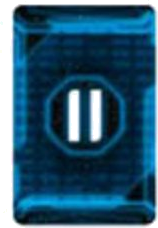
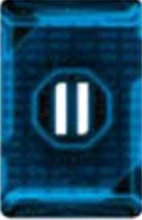
Add files via upload

diff --git a/index.html b/index.html
@@ -1,5 +1,5 @@
 <!DOCTYPE html>
-<!-- TI4 Tracker 2.054 -->
+<!-- TI4 Tracker 2.055 -->
 <html lang="en">
 <head>
 <meta charset="UTF-8">
@@ -257,7 +257,7 @@ label { font-size: 12px; color: var(--text-dim); display: block; margin-bottom: 
 // TI4 Tracker - Single file, no module systems, no IIFEs
 // =============================================================================
 
-var VERSION = '2.054';
+var VERSION = '2.055';
 document.getElementById('version-display').textContent = 'v' + VERSION;
 
 // Debug logger - silent unless panel toggled open
@@ -488,6 +488,49 @@ const STARTING_TECH = {
   "The Crimson Rebellion":[],
   "The Firmament":[],
   "The Obsidian":[],
+};
+
+// Prerequisite color markers for each tech. Colors: y=yellow(cybernetic), g=green(biotic), b=blue(propulsion), r=red(warfare)
+const TECH_PREREQS = {
+  // BIOTIC
+  "Neural Motivator": [],
+  "Dacxive Animators": ["g"],
+  "Hyper Metabolism": ["g","g"],
+  "X-89 Bacterial Weapon": ["g","g","g"],
+  "Psychoarchaeology": [],
+  "Bio-Stims": ["g"],
+  // PROPULSION
+  "Antimass Deflectors": [],
+  "Gravity Drive": ["b"],
+  "Fleet Logistics": ["b","b"],
+  "Light/Wave Deflector": ["b","b","b"],
+  "Dark Energy Tap": [],
+  "Sling Relay": ["b"],
+  // CYBERNETIC
+  "Sarween Tools": [],
+  "Graviton Laser System": ["y"],
+  "Transit Diodes": ["y","y"],
+  "Integrated Economy": ["y","y","y"],
+  "Scanlink Drone Network": [],
+  "Predictive Intelligence": ["y"],
+  // WARFARE
+  "Plasma Scoring": [],
+  "Magen Defense Grid": ["r"],
+  "Duranium Armor": ["r","r"],
+  "Assault Cannon": ["r","r","r"],
+  "AI Development Algorithm": [],
+  "Self Assembly Routines": ["r"],
+  // UNIT UPGRADES
+  "Carrier II": ["b","b"],
+  "Cruiser II": ["g","y","r"],
+  "Destroyer II": ["r","r"],
+  "Dreadnought II": ["b","y"],
+  "Fighter II": ["g","g"],
+  "Infantry II": ["g"],
+  "Mech": ["g","y"],
+  "PDS II": ["r","y"],
+  "Space Dock II": ["y","y"],
+  "War Sun": ["r","r","r","y"]
 };
 
 const FACTION_DATA = {
@@ -1722,7 +1765,6 @@ function renderTech() {
   if (!p) { techPlayer = 0; p = state.players[0]; }
   
   // Player picker - bigger buttons, two rows
-  // Split players into two rows
   var half = Math.ceil(state.players.length / 2);
   var row1 = state.players.slice(0, half);
   var row2 = state.players.slice(half);
@@ -1743,99 +1785,58 @@ function renderTech() {
   
   h += '<div class="small mt-16" style="text-align:center"><b>' + p.name + '</b> — ' + p.faction + '</div>';
   
-  // Current techs - in larger boxes
+  // Researched techs
   h += '<div class="mt-16"><div style="font-size:11px;letter-spacing:.15em;color:var(--gold);text-transform:uppercase;margin-bottom:6px">Researched</div>';
   if (!p.techs || !p.techs.length) {
     h += '<div class="small dim center" style="padding:12px">No technologies researched</div>';
   } else {
     h += '<div style="display:flex;flex-direction:column;gap:6px">';
     p.techs.forEach(function(name) {
-      var t = TECHNOLOGIES.find(function(x) { return x.name === name; });
-      var type = t ? t.type : 'unit';
-      var typeColor = type === 'biotic' ? '#27ae60' :
-                      type === 'propulsion' ? '#2980b9' :
-                      type === 'cybernetic' ? '#d4ac0d' :
-                      type === 'warfare' ? '#e74c3c' :
-                      type === 'unit' ? '#a569bd' :
-                      'var(--gold)';
-      h += '<div style="display:flex;align-items:center;gap:8px;background:rgba(36, 50, 84, 0.4);border:1px solid ' + typeColor + ';border-left:4px solid ' + typeColor + ';border-radius:6px;padding:10px 12px">';
-      h += '<div style="flex:1;min-width:0">';
-      h += '<div style="font-size:14px;font-weight:600;color:' + typeColor + '">' + name + '</div>';
-      if (t && t.desc) {
-        h += '<div style="font-size:10px;color:var(--text-dim);margin-top:2px;line-height:1.3">' + t.desc + '</div>';
-      }
-      h += '</div>';
-      if (isAdmin) {
-        h += '<button onclick="removeTech(\'' + name.replace(/'/g, "\\'") + '\')" style="background:none;border:none;color:var(--red);font-size:16px;cursor:pointer;padding:4px 8px">✕</button>';
-      }
-      h += '</div>';
+      h += renderTechBox(name, true, p);
     });
     h += '</div>';
   }
   h += '</div>';
   
-  // Available techs grouped by type - all categories collapsed by default
+  // Available techs grouped by type
   h += '<div class="mt-16"><div style="font-size:11px;letter-spacing:.15em;color:var(--gold);text-transform:uppercase;margin-bottom:6px">Research New</div>';
   
-  var fd = FACTION_DATA[p.faction] || {};
-  var myFT = {};
-  (fd.factionTechs || []).forEach(function(ft) { myFT[ft.name] = true; });
-  
-  // Group order
-  var typeOrder = ['biotic', 'propulsion', 'cybernetic', 'warfare', 'unit', 'faction'];
-  var typeLabels = {biotic:'Biotic', propulsion:'Propulsion', cybernetic:'Cybernetic', warfare:'Warfare', unit:'Unit Upgrades', faction:'Faction'};
-  var typeColors = {biotic:'#27ae60', propulsion:'#2980b9', cybernetic:'#d4ac0d', warfare:'#e74c3c', unit:'#a569bd', faction:'#c9a84c'};
+  var typeOrder = ['biotic', 'propulsion', 'cybernetic', 'warfare', 'unit', 'faction', 'factionunit'];
+  var typeLabels = {biotic:'Biotic', propulsion:'Propulsion', cybernetic:'Cybernetic', warfare:'Warfare', unit:'Unit Upgrades', faction:'Faction', factionunit:'Faction Units'};
   
   typeOrder.forEach(function(type) {
-    // Available techs in this category (not already researched)
-    var techs = TECHNOLOGIES.filter(function(t) {
-      if (t.type !== type) return false;
-      if (p.techs && p.techs.indexOf(t.name) >= 0) return false;
-      return true;
-    });
-    
-    // For faction type, sort: mine first
-    if (type === 'faction') {
-      techs.sort(function(a, b) {
-        var aMine = myFT[a.name] ? 0 : 1;
-        var bMine = myFT[b.name] ? 0 : 1;
-        return aMine - bMine;
+    var techs;
+    if (type === 'factionunit') {
+      techs = getAllFactionUnits().filter(function(t) {
+        return (!p.techs || p.techs.indexOf(t.name) < 0);
+      });
+    } else {
+      techs = TECHNOLOGIES.filter(function(t) {
+        if (t.type !== type) return false;
+        if (p.techs && p.techs.indexOf(t.name) >= 0) return false;
+        return true;
       });
     }
     
     var count = techs.length;
     var expanded = techExpanded[type];
     var arrow = expanded ? '▼' : '▶';
-    var typeColor = typeColors[type];
+    var typeColor = getTechTypeColor(type);
     
     h += '<div style="margin-bottom:6px">';
-    // Category header - clickable
     h += '<div onclick="toggleTechCategory(\'' + type + '\')" style="display:flex;align-items:center;gap:8px;padding:8px 12px;background:rgba(36, 50, 84, 0.4);border-left:4px solid ' + typeColor + ';border-radius:6px;cursor:pointer;user-select:none">';
     h += '<span style="color:' + typeColor + ';font-size:12px;font-weight:700;flex:1">' + typeLabels[type] + '</span>';
     h += '<span style="color:var(--text-dim);font-size:11px">' + count + '</span>';
     h += '<span style="color:' + typeColor + ';font-size:10px">' + arrow + '</span>';
     h += '</div>';
     
-    // Tech list - only visible if expanded
     if (expanded) {
       h += '<div style="padding:6px 0 0 6px;display:flex;flex-direction:column;gap:4px">';
       if (!techs.length) {
         h += '<div class="small dim" style="padding:6px">All researched</div>';
       } else {
         techs.forEach(function(t) {
-          var greyed = type === 'faction' && !myFT[t.name];
-          var click = isAdmin && !greyed ? 'onclick="addTech(\'' + t.name.replace(/'/g, "\\'") + '\')"' : '';
-          var opacity = greyed ? '0.3' : '1';
-          var cursor = (isAdmin && !greyed) ? 'pointer' : 'default';
-          h += '<div ' + click + ' style="display:flex;align-items:center;gap:8px;background:rgba(36, 50, 84, 0.2);border:1px solid ' + typeColor + ';border-left:3px solid ' + typeColor + ';border-radius:4px;padding:8px 10px;opacity:' + opacity + ';cursor:' + cursor + '">';
-          h += '<div style="flex:1;min-width:0">';
-          h += '<div style="font-size:13px;color:' + typeColor + ';font-weight:600">' + t.name + '</div>';
-          if (t.desc) {
-            h += '<div style="font-size:10px;color:var(--text-dim);margin-top:2px;line-height:1.3">' + t.desc + '</div>';
-          }
-          h += '</div>';
-          if (isAdmin && !greyed) h += '<div style="color:' + typeColor + ';font-size:18px;flex-shrink:0">+</div>';
-          h += '</div>';
+          h += renderTechBox(t.name, false, p);
         });
       }
       h += '</div>';
@@ -1844,9 +1845,190 @@ function renderTech() {
   });
   
   h += '</div>';
-  
   el.innerHTML = h;
 }
+
+// Get all faction units flattened with synthetic tech objects: {name, type:'factionunit', faction, desc}
+function getAllFactionUnits() {
+  var out = [];
+  Object.keys(FACTION_DATA).forEach(function(facName) {
+    var fd = FACTION_DATA[facName] || {};
+    (fd.units || []).forEach(function(unitStr) {
+      // Parse "Name — desc" or "Name - desc"
+      var sep = unitStr.indexOf(' — ');
+      if (sep < 0) sep = unitStr.indexOf(' - ');
+      var name, desc;
+      if (sep > 0) {
+        name = unitStr.slice(0, sep).trim();
+        desc = unitStr.slice(sep + 3).trim();
+      } else {
+        name = unitStr;
+        desc = '';
+      }
+      out.push({ name: name, type: 'factionunit', faction: facName, desc: desc });
+    });
+  });
+  return out;
+}
+
+function getTechTypeColor(type) {
+  return type === 'biotic' ? '#27ae60' :
+         type === 'propulsion' ? '#2980b9' :
+         type === 'cybernetic' ? '#d4ac0d' :
+         type === 'warfare' ? '#e74c3c' :
+         type === 'unit' ? '#a569bd' :
+         type === 'faction' ? '#c9a84c' :
+         type === 'factionunit' ? '#c9a84c' :
+         'var(--gold)';
+}
+
+// Find tech info from any source by name
+function findTechByName(name) {
+  // Check standard TECHNOLOGIES first
+  var t = TECHNOLOGIES.find(function(x) { return x.name === name; });
+  if (t) return t;
+  // Check faction units
+  var allFU = getAllFactionUnits();
+  var fu = allFU.find(function(x) { return x.name === name; });
+  if (fu) return fu;
+  return null;
+}
+
+// Render a single tech box (uniform width, name + prereq markers, click to open detail)
+function renderTechBox(techName, isResearched, currentPlayer) {
+  var t = findTechByName(techName);
+  if (!t) {
+    // Unknown tech - render basic box
+    return '<div onclick="openTechDetail(\'' + techName.replace(/'/g, "\\'") + '\')" style="display:flex;align-items:center;gap:6px;background:rgba(36, 50, 84, 0.3);border:1px solid var(--border);border-left:3px solid var(--border);border-radius:6px;padding:10px 12px;cursor:pointer;width:100%"><div style="flex:1;font-size:13px">' + techName + '</div></div>';
+  }
+  
+  var typeColor = getTechTypeColor(t.type);
+  
+  // For faction-only techs/units, check if this player can research them
+  var ownedBySomeoneElse = false;
+  if (t.type === 'faction') {
+    var fdMine = FACTION_DATA[currentPlayer.faction] || {};
+    var mineHas = (fdMine.factionTechs || []).some(function(ft) { return ft.name === t.name; });
+    if (!mineHas) ownedBySomeoneElse = true;
+  } else if (t.type === 'factionunit') {
+    if (t.faction !== currentPlayer.faction) ownedBySomeoneElse = true;
+  }
+  
+  var opacity = (ownedBySomeoneElse && !isResearched) ? '0.4' : '1';
+  
+  // Prerequisite markers
+  var prereqs = TECH_PREREQS[techName] || [];
+  var markersHtml = '';
+  prereqs.forEach(function(c) {
+    var bg = c === 'y' ? '#d4ac0d' :
+             c === 'g' ? '#27ae60' :
+             c === 'b' ? '#2980b9' :
+             c === 'r' ? '#e74c3c' : '#888';
+    markersHtml += '<div style="width:14px;height:14px;background:' + bg + ';border:1px solid rgba(255,255,255,.3);border-radius:50%;flex-shrink:0"></div>';
+  });
+  
+  var safeName = techName.replace(/'/g, "\\'");
+  var h = '<div onclick="openTechDetail(\'' + safeName + '\')" style="display:flex;align-items:center;gap:6px;background:rgba(36, 50, 84, 0.4);border:1px solid ' + typeColor + ';border-left:4px solid ' + typeColor + ';border-radius:6px;padding:10px 12px;cursor:pointer;width:100%;opacity:' + opacity + '">';
+  // Tech name - allow truncation with ellipsis on small screens
+  h += '<div style="flex:1;min-width:0;font-size:14px;font-weight:600;color:' + typeColor + ';overflow:hidden;text-overflow:ellipsis;white-space:nowrap">' + techName + '</div>';
+  // Prereq markers (always rendered, padding allows ~3 markers)
+  h += '<div style="display:flex;gap:3px;flex-shrink:0;min-width:48px;justify-content:flex-end">' + markersHtml + '</div>';
+  h += '</div>';
+  return h;
+}
+
+// Open tech detail modal
+function openTechDetail(techName) {
+  var t = findTechByName(techName);
+  if (!t) {
+    alert('Tech info not found for: ' + techName);
+    return;
+  }
+  
+  var p = state.players[techPlayer];
+  if (!p) return;
+  var isResearched = p.techs && p.techs.indexOf(techName) >= 0;
+  var typeColor = getTechTypeColor(t.type);
+  
+  // Determine if this player can research this tech
+  var canResearch = true;
+  var disabledReason = '';
+  if (t.type === 'faction') {
+    var fdMine = FACTION_DATA[p.faction] || {};
+    var mineHas = (fdMine.factionTechs || []).some(function(ft) { return ft.name === t.name; });
+    if (!mineHas) { canResearch = false; disabledReason = 'Only available to its faction'; }
+  } else if (t.type === 'factionunit') {
+    if (t.faction !== p.faction) { canResearch = false; disabledReason = 'Only available to ' + t.faction; }
+  }
+  
+  var typeLabel = t.type === 'biotic' ? 'Biotic' :
+                  t.type === 'propulsion' ? 'Propulsion' :
+                  t.type === 'cybernetic' ? 'Cybernetic' :
+                  t.type === 'warfare' ? 'Warfare' :
+                  t.type === 'unit' ? 'Unit Upgrade' :
+                  t.type === 'faction' ? 'Faction Tech' :
+                  t.type === 'factionunit' ? 'Faction Unit' : t.type;
+  
+  var h = '<div style="background:rgba(10, 21, 37, 0.6);border:2px solid ' + typeColor + ';border-radius:10px;padding:16px;box-shadow:0 0 24px ' + typeColor + '40 inset">';
+  // Type label at top
+  h += '<div style="font-size:10px;letter-spacing:.2em;color:' + typeColor + ';text-transform:uppercase;text-align:center;margin-bottom:6px">' + typeLabel + '</div>';
+  // Name
+  h += '<div style="font-size:20px;font-weight:700;color:' + typeColor + ';text-align:center;line-height:1.2;margin-bottom:10px">' + techName + '</div>';
+  // For faction/factionunit show which faction
+  if (t.faction) {
+    h += '<div style="font-size:11px;color:var(--text-dim);text-align:center;margin-bottom:10px">' + t.faction + '</div>';
+  }
+  // Prereq markers (centered)
+  var prereqs = TECH_PREREQS[techName] || [];
+  if (prereqs.length) {
+    h += '<div style="display:flex;justify-content:center;gap:5px;margin-bottom:12px">';
+    prereqs.forEach(function(c) {
+      var bg = c === 'y' ? '#d4ac0d' :
+               c === 'g' ? '#27ae60' :
+               c === 'b' ? '#2980b9' :
+               c === 'r' ? '#e74c3c' : '#888';
+      h += '<div style="width:18px;height:18px;background:' + bg + ';border:1px solid rgba(255,255,255,.4);border-radius:50%"></div>';
+    });
+    h += '</div>';
+  }
+  // Description
+  h += '<div style="color:#dde4f0;font-size:13px;line-height:1.5;padding:8px 4px">' + (t.desc || '(no description)') + '</div>';
+  h += '</div>';
+  
+  // Buttons
+  h += '<div class="row mt-16" style="gap:8px">';
+  h += '<button class="btn" onclick="closeModal()" style="flex:1">Close</button>';
+  if (isAdmin && !state.ended) {
+    if (isResearched) {
+      h += '<button class="btn btn-danger" onclick="removeTechFromModal(\'' + techName.replace(/'/g, "\\'") + '\')" style="flex:1">Remove</button>';
+    } else if (canResearch) {
+      h += '<button class="btn btn-primary" onclick="researchTechFromModal(\'' + techName.replace(/'/g, "\\'") + '\')" style="flex:1">Research</button>';
+    } else {
+      h += '<button class="btn" disabled style="flex:1;opacity:.4">' + (disabledReason || 'Cannot research') + '</button>';
+    }
+  }
+  h += '</div>';
+  
+  var modal = document.getElementById('modal');
+  modal.classList.add('modal-center');
+  modal.innerHTML = h;
+  modal.classList.add('open');
+  document.getElementById('modal-overlay').classList.add('open');
+}
+
+function researchTechFromModal(name) {
+  closeModal();
+  addTech(name);
+}
+
+function removeTechFromModal(name) {
+  closeModal();
+  removeTech(name);
+}
+
+window.openTechDetail = openTechDetail;
+window.researchTechFromModal = researchTechFromModal;
+window.removeTechFromModal = removeTechFromModal;
 
 function toggleTechCategory(type) {
   techExpanded[type] = !techExpanded[type];